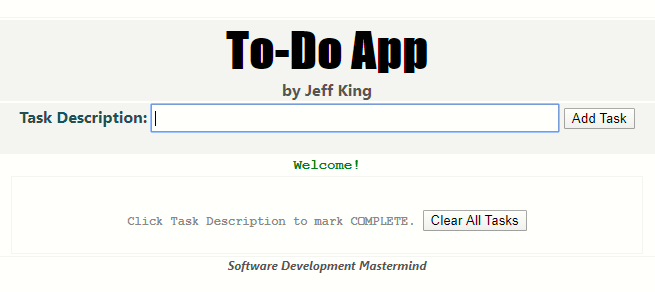
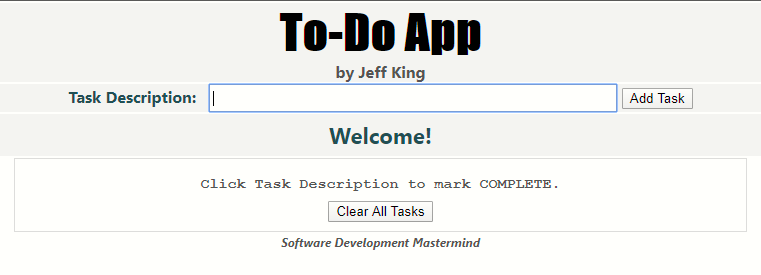
All functions and styling complete.

Changed region(s): [[0.0, 0.0, 1.0, 0.5236], [0.0305, 0.64, 0.9771, 0.9309], [0.0305, 0.5527, 0.9771, 0.5818]]

diff --git a/index.html b/index.html
@@ -7,32 +7,6 @@
     <title>A Simple To-Do Application</title>
 </head>
 
-<!-- 
-<header>    
-    <!-- <table class="main-table">
-        <tr>
-            <td class="page-title">
-                <h1>To-Do App</h1>
-                <h2>by Jeff King</h2>
-            </td>
-        </tr>
-        <tr>
-            <td class="page-title">
-                <form>
-                    Task Description:&nbsp;&nbsp;
-                    <input type="text" id="task-description" class="input-textbox">
-                    <input type="submit" value="Add Task" id="add-btn-id">
-                </form>
-            </td>
-        </tr>
-        <tr>
-            <td class="page-title">
-                <h5><span id="system-message"></span></h5>
-            </td>
-        </tr>
-    </table> 
-</header> -->
-
 <body>
     <table class="main-table">
         <tr>
@@ -65,7 +39,6 @@
                     <input type="submit" value="Clear All Tasks" id="clear-local-btn">
                 </h4>
             </td>
-            <br>
         </tr>
     </table>
     <h3>Software Development Mastermind</h3>

diff --git a/basic.css b/basic.css
@@ -1,7 +1,6 @@
 body {
     margin: 0;
     padding: 0px;
-    /* background-color: #f4f4f4; */
 }
 head {
     margin: 0;
@@ -41,22 +40,20 @@ h4 {
     color: #555555;
     margin: 0;
     text-align: center;
-    padding-bottom: 8px;    
-    /* padding: 0px; */
+    padding-bottom: 8px;
 }
 h5 {
     font-size: 22px;
     font-family: 'Segoe UI', Tahoma, Geneva, Verdana, sans-serif;
-    color: darkgreen;
+    color: darkslategray;
     margin: 0;
     padding: 6px 6px;
-    /* padding: 0px; */
     text-align: center;   
 }
 ul {
     list-style-type: none;   
-    padding-left: 0px; 
-    /* padding: 0px; */
+    margin-top: 0px;
+    padding: 0px;
 }
 li {
     padding: 5px;

diff --git a/index.css b/index.css
@@ -1,5 +1,5 @@
 .task-list {   
-    border: 1px solid #f4f4f4;
+    border: 1px solid #dddddd;
     display: flex; 
     flex-direction: column; 
     flex-wrap: nowrap;
@@ -10,13 +10,4 @@
 
 .btn-delete {
     float: right;
-}
-.test {
-    font-size: 18px;
-    color: bisque;
-    background-color: blue;
-}
-table {
-    padding: 0px;
-    margin: 0;
 }

diff --git a/README.md b/README.md
@@ -28,11 +28,12 @@ Written entirely in pure JavaScript, HTML, and CSS, an app to create a list of t
 * **List items added**<br>
 <img src="images/todoApp_SS_WithItems.png"><br>
 
+<!-- 
 * **No List Items**<br>
 ![noListItems](https://raw.githubusercontent.com/jazfunk/jk-to-do-app/master/images/todoApp_SS_NoItems.PNG)<br>
 
 * **List items added**<br>
-![listItems](https://raw.githubusercontent.com/jazfunk/jk-to-do-app/master/images/todoApp_SS_WithItems.PNG)
+![listItems](https://raw.githubusercontent.com/jazfunk/jk-to-do-app/master/images/todoApp_SS_WithItems.PNG) -->
 
 ## Summary
 Seemingly a simple application to develop, the "To-Do" app was a challenging one.  Utilizing local browser storage to persist data between user visits has always been something I wanted to become proficient in.  With the skills developed from building this app, my understanding of local storage has improved tremendously.
